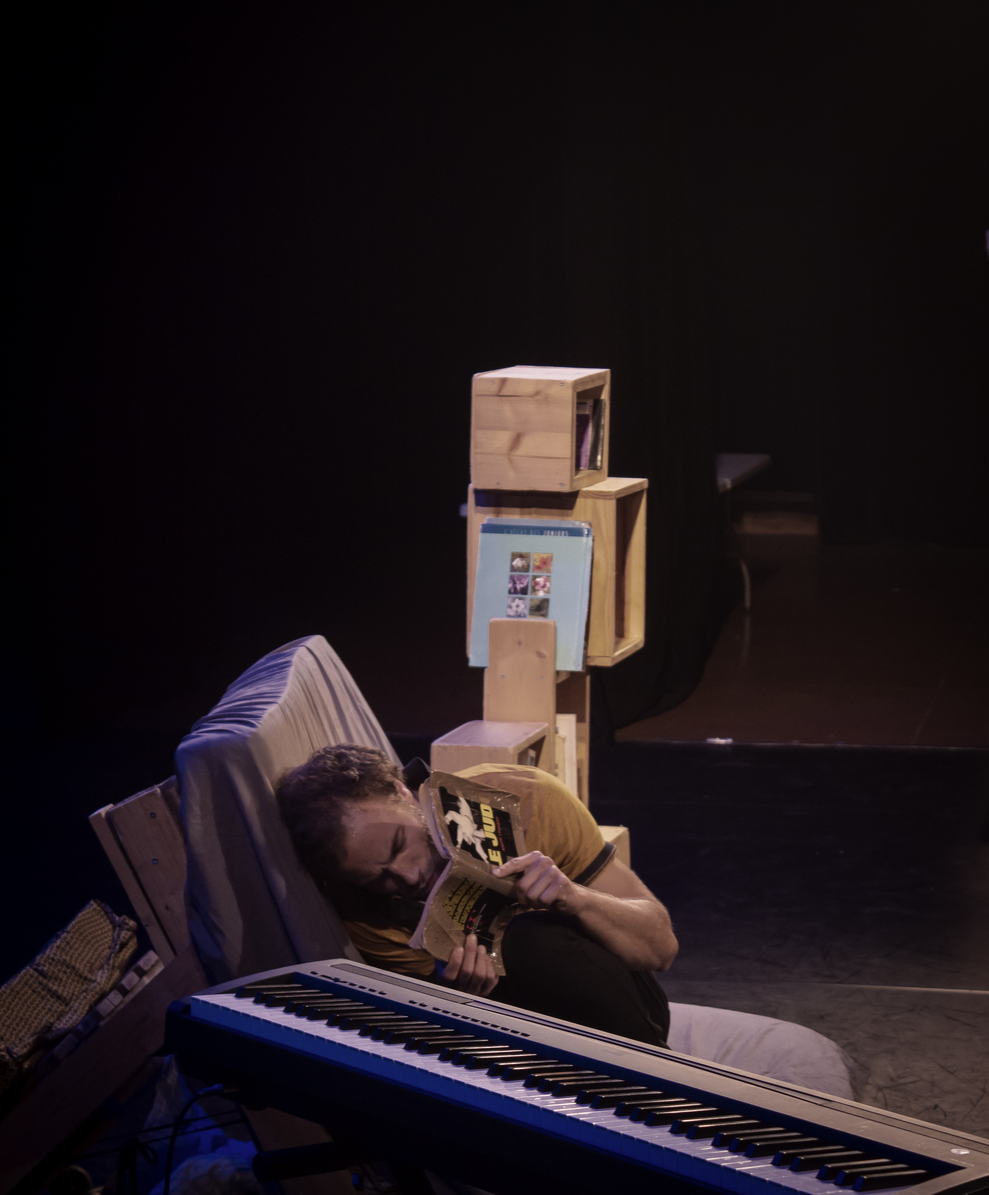
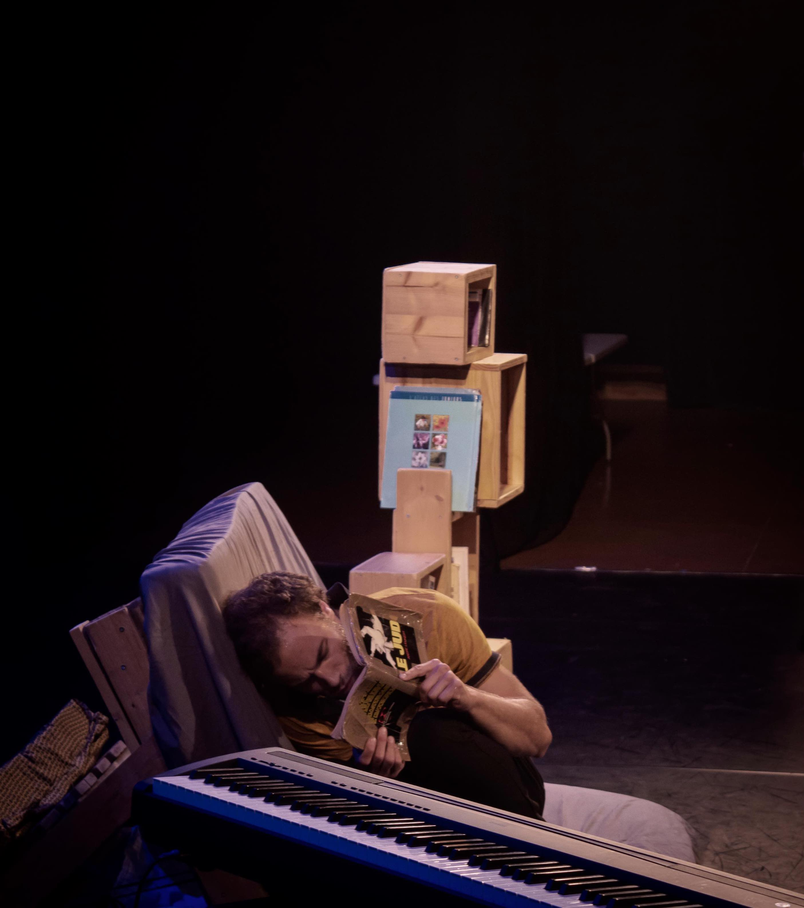
cleaned up images for galery. less heavy files

diff --git a/galerie.html b/galerie.html
@@ -95,8 +95,8 @@
 						</a>
 					</div>
 					<div class="col-sm-3 col-xs-12">
-						<a href="assets/images/imagesPF/galerie/auré_équi_spectambul_goodsize.png" >
-							<img src="assets/images/imagesPF/galerie/auré_équi_spectambul_goodsize.png" width=250px />
+						<a href="assets/images/imagesPF/galerie/auré_équi_spectambu.jpg"  >
+							<img src="assets/images/imagesPF/galerie/auré_équi_spectambu.jpg" height=190px ;/>
 						</a>
 					</div>
 					<div class="col-sm-3 col-xs-12">
@@ -123,8 +123,8 @@
 						</a>
 					</div> -->
 					<div class="col-sm-3 col-xs-12">
-						<a href="assets/images/imagesPF/galerie/auré_lit_spectambul_goodsize.png" >
-							<img src="assets/images/imagesPF/galerie/auré_lit_spectambul_goodsize.png" width=250px />
+						<a href="assets/images/imagesPF/galerie/auré_lit_spectambul.jpg" >
+							<img src="assets/images/imagesPF/galerie/auré_lit_spectambul.jpg" height=190px />
 						</a>
 					</div>
 					<!-- <div class="col-sm-3 col-xs-12">
@@ -133,8 +133,8 @@
 						</a>
 					</div> -->
 					<div class="col-sm-3 col-xs-12">
-						<a href="assets/images/imagesPF/galerie/striptease_spectambul.JPG" >
-							<img src="assets/images/imagesPF/galerie/striptease_spectambul.JPG" width=250px />
+						<a href="assets/images/imagesPF/galerie/striptease_spectambul.jpg" >
+							<img src="assets/images/imagesPF/galerie/striptease_spectambul.jpg" width=250px />
 						</a>
 					</div>
 					<div class="col-sm-3 col-xs-12">
@@ -156,22 +156,46 @@
 						</a>
 					</div> -->
 					<div class="col-sm-3 col-xs-12">
-						<a href="assets/images/imagesPF/galerie/spectambul_couleurs.JPG" >
-							<img src="assets/images/imagesPF/galerie/spectambul_couleurs.JPG" width=250px />
+						<a href="assets/images/imagesPF/galerie/spectambul_couleurs.jpg" >
+							<img src="assets/images/imagesPF/galerie/spectambul_couleurs.jpg" width=250px />
 						</a>
 					</div>
 					<div class="col-sm-3 col-xs-12">
-						<a href="assets/images/imagesPF/galerie/spectambul_jongle_goodsize.png" >
-							<img src="assets/images/imagesPF/galerie/spectambul_jongle_goodsize.png" width=250px />
+						<a href="assets/images/imagesPF/galerie/spectambul_jongle.jpg" >
+							<img src="assets/images/imagesPF/galerie/spectambul_jongle.jpg" height=190px />
 						</a>
 					</div>
 					<div class="col-sm-3 col-xs-12">
-						<a href="assets/images/imagesPF/galerie/spectambul_interactionpublic.JPG" >
-							<img src="assets/images/imagesPF/galerie/spectambul_interactionpublic.JPG" width=250px />
+						<a href="assets/images/imagesPF/galerie/spectambul_interactionpublic.jpg" >
+							<img src="assets/images/imagesPF/galerie/spectambul_interactionpublic.jpg" width=250px />
 						</a>
 					</div>
 					
 				</div>
+				<div class="row">
+					<div class="col-sm-3 col-xs-12">
+						<a href="assets/images/imagesPF/galerie/spectambul_doublelecture.jpg" >
+							<img src="assets/images/imagesPF/galerie/spectambul_doublelecture.jpg" width=250px />
+						</a>
+					</div>
+					<div class="col-sm-3 col-xs-12">
+						<a href="assets/images/imagesPF/galerie/final.jpg" >
+							<img src="assets/images/imagesPF/galerie/final.jpg" height=190px />
+						</a>
+					</div>
+					<div class="col-sm-3 col-xs-12">
+						<a href="assets/images/imagesPF/galerie/spectambul_regardpublic.jpg" >
+							<img src="assets/images/imagesPF/galerie/spectambul_regardpublic.jpg" height=190px />
+						</a>
+					</div>
+					<div class="col-sm-3 col-xs-12">
+						<a href="assets/images/imagesPF/galerie/spectambul_percus.jpg" >
+							<img src="assets/images/imagesPF/galerie/spectambul_percus.jpg" width=250px />
+						</a>
+					</div>
+					
+				</div>
+				
 
 			</div>
 			<!-- Musiques Studio ends-->
